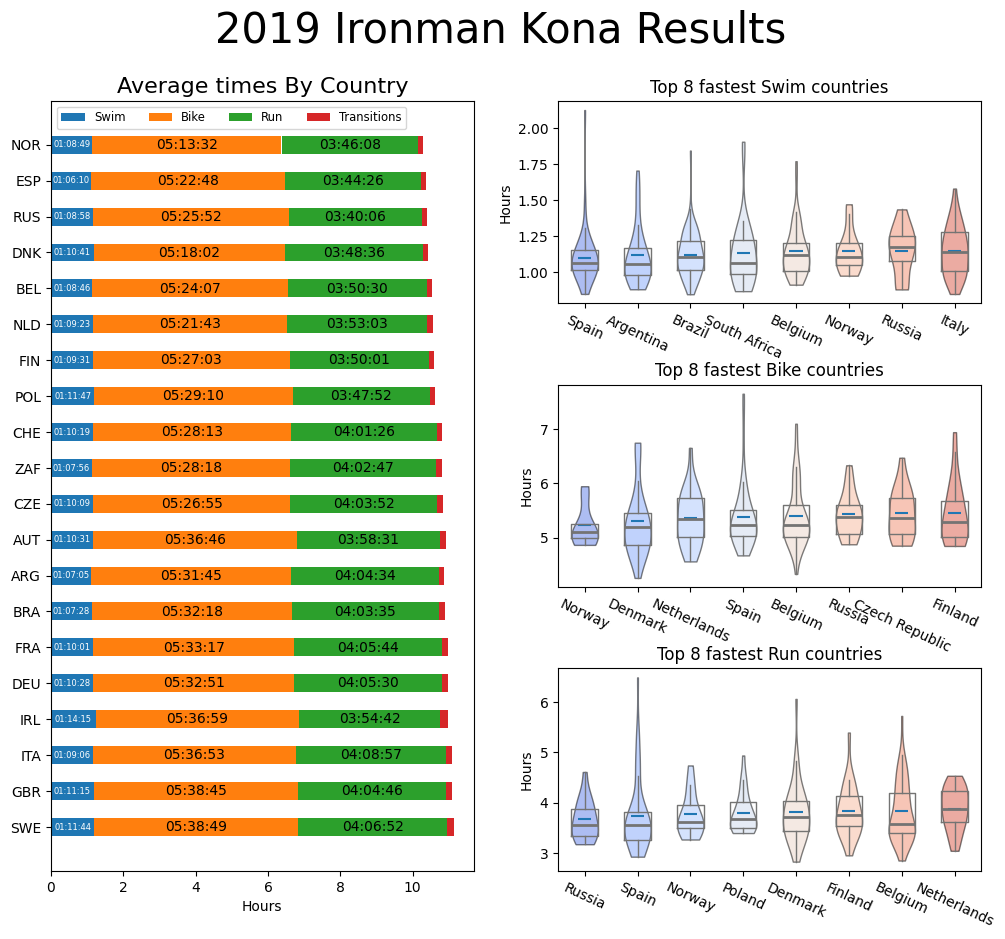
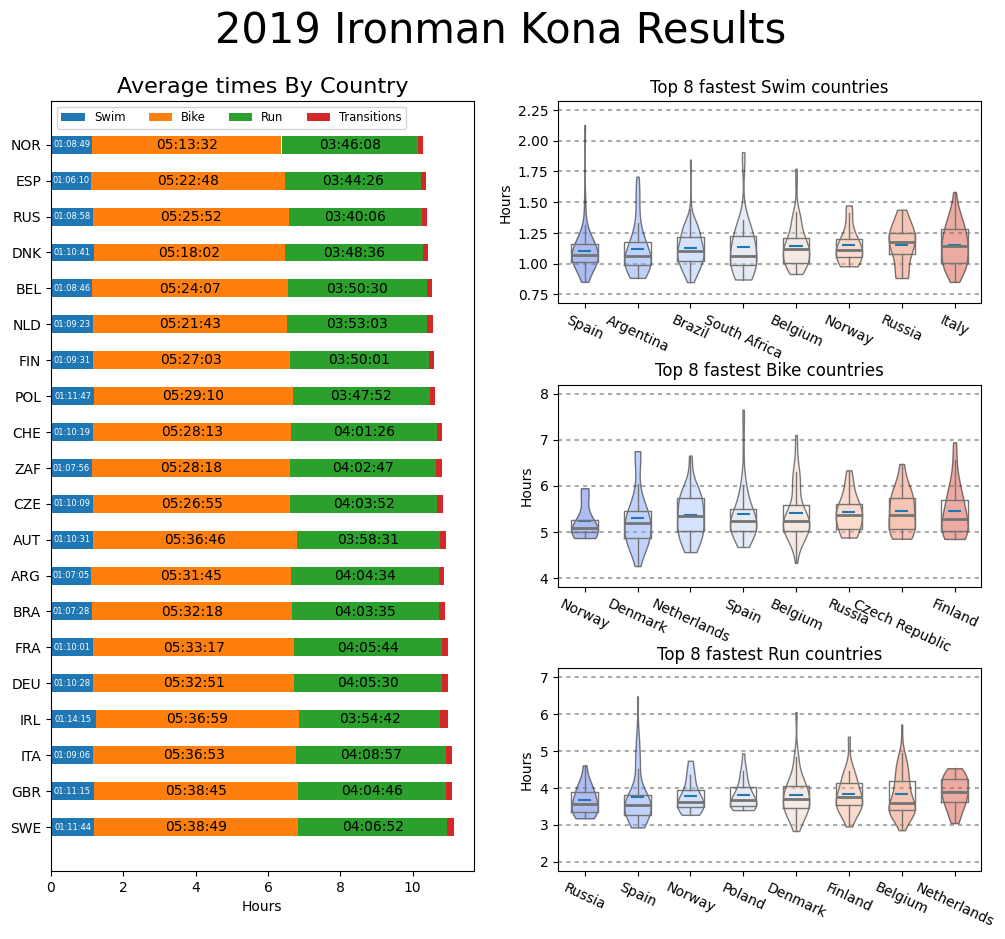
feature: adding hlines
adding hlines to subgraphs on the right .
helps see where the distributions sit.

diff --git a/scripts/2_gridspec.py b/scripts/2_gridspec.py
@@ -16,14 +16,7 @@
     # pics that show the different functions.
     # resource article?  someone has to have written about this in a non-doc fashion
 
-# 2. time series that i deconstruct with wavelets or FFT on the other side. 
-    # - Could build that into the dashboard example too. 
-    #MITDB maybe?  .. hmm. nah. 
-    #multimodal datset?  
-        # this might be best.  
-        # but won't be able to read it into memory. 
-        # Could use the German multimodal dataset I found for Tom
-        # He also suggested another one.. can't remember
+
     #Daily bikes?
         #45103
         #this one coudl be fun.  Lots of good weather data
@@ -110,13 +103,17 @@ support.view_allcols(opendb.data)
 
 fig = plt.figure(figsize = (12, 10))
 gs = gridspec.GridSpec(nrows=3, ncols=2, height_ratios=[1, 1, 1])
+#Far left axis
 ax_one = fig.add_subplot(gs[:3, 0], label="stack_country")
-ax_two = fig.add_subplot(gs[0, 1], label="time_country")
-ax_three = fig.add_subplot(gs[1:2, 1], label="tornado_mf")
-ax_four = fig.add_subplot(gs[2:, 1], label="dist_mf")
+#Top right axis
+ax_two = fig.add_subplot(gs[0, 1], label="swim")
+#mid right axis
+ax_three = fig.add_subplot(gs[1:2, 1], label="bike")
+#low right axis
+ax_four = fig.add_subplot(gs[2:, 1], label="run")
+
 plt.subplots_adjust(hspace=0.4)
  
-
 ##############################  stacked bar ##############################
 #data wrangling
 #Groupby function is malfunctioning so doing it manually.  One of the many
@@ -207,6 +204,7 @@ for event_col, ax in zip(graphcols[:3], [ax_two, ax_three, ax_four]):
     top5 = swims.index[:howmany]
 
     POSITIONS = list(range(howmany))
+    
     COLORS = list(sns.color_palette(palette="coolwarm", n_colors=len(POSITIONS)))
     sample = im_df[im_df["Country"].isin(top5)]
     sample.sort_values(by=event_col, ascending=True)
@@ -261,6 +259,13 @@ for event_col, ax in zip(graphcols[:3], [ax_two, ax_three, ax_four]):
     
     #Adjust y ticks / labels
     ax.set_ylabel("Hours")
+
+    #Add horizontal dash lines at the y labels
+    HLINES = ytick_labels = ax.get_yticks().tolist()
+
+    for h in HLINES:
+        ax.axhline(h, color="#747473", ls=(0, (2, 2)), alpha=0.6, zorder=0)
+    # Old code for adjusting tick labels.  Yielded wierdly formatted intervals
     # ytick_labels = ax.get_yticks().tolist()
     # labelsformatted = [support.convert_time_format(y) for y in ytick_labels]
     # ax.set_yticks(ytick_labels)

diff --git a/scripts/3_animation_dashboards.py b/scripts/3_animation_dashboards.py
@@ -2,3 +2,12 @@
 
 
 # https://matplotlib.org/stable/gallery/animation/multiple_axes.html#sphx-glr-gallery-animation-multiple-axes-py
+
+# 2. time series that i deconstruct with wavelets or FFT on the other side. 
+    # - Could build that into the dashboard example too. 
+    #MITDB maybe?  .. hmm. nah. 
+    #multimodal datset?  
+        # this might be best.  
+        # but won't be able to read it into memory. 
+        # Could use the German multimodal dataset I found for Tom
+        # He also suggested another one.. can't remember
